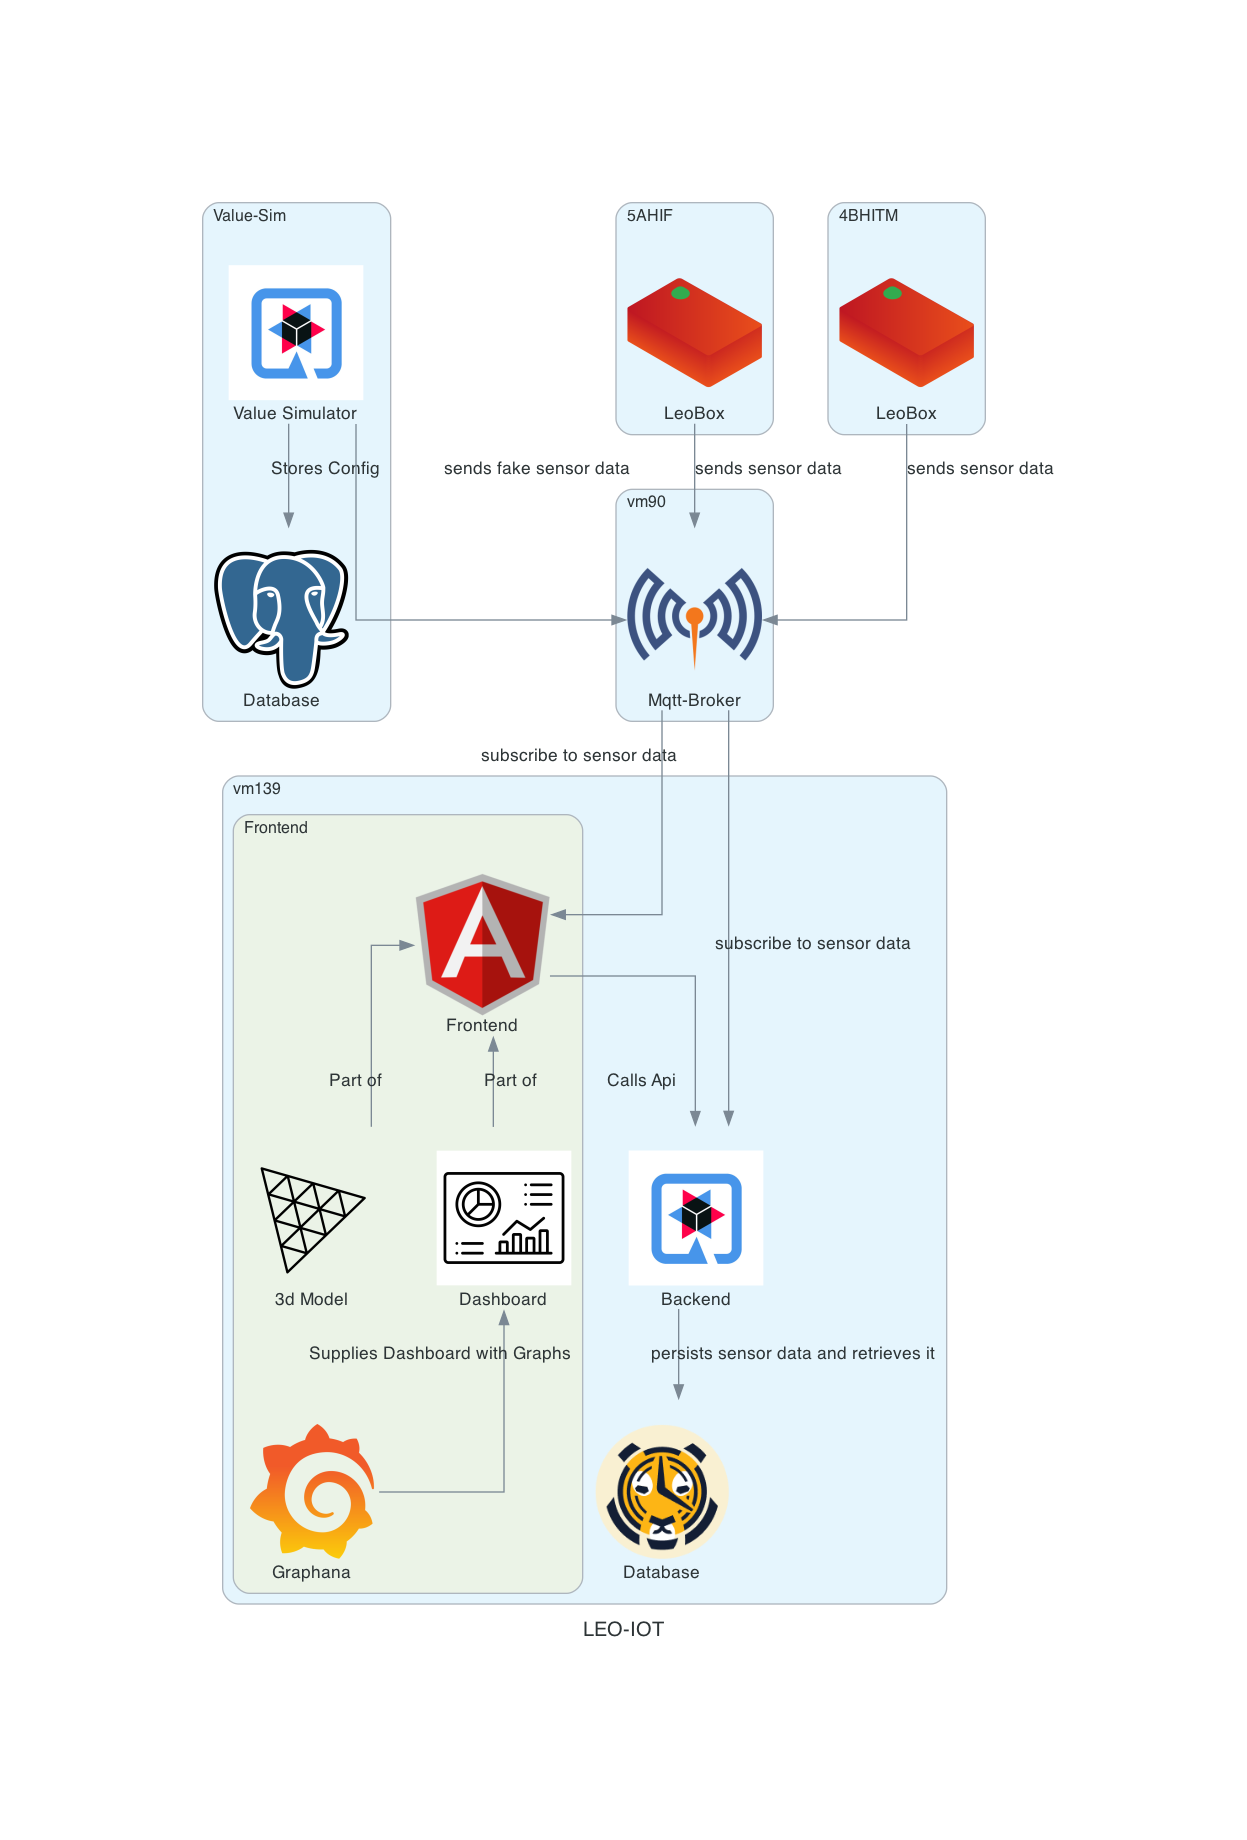
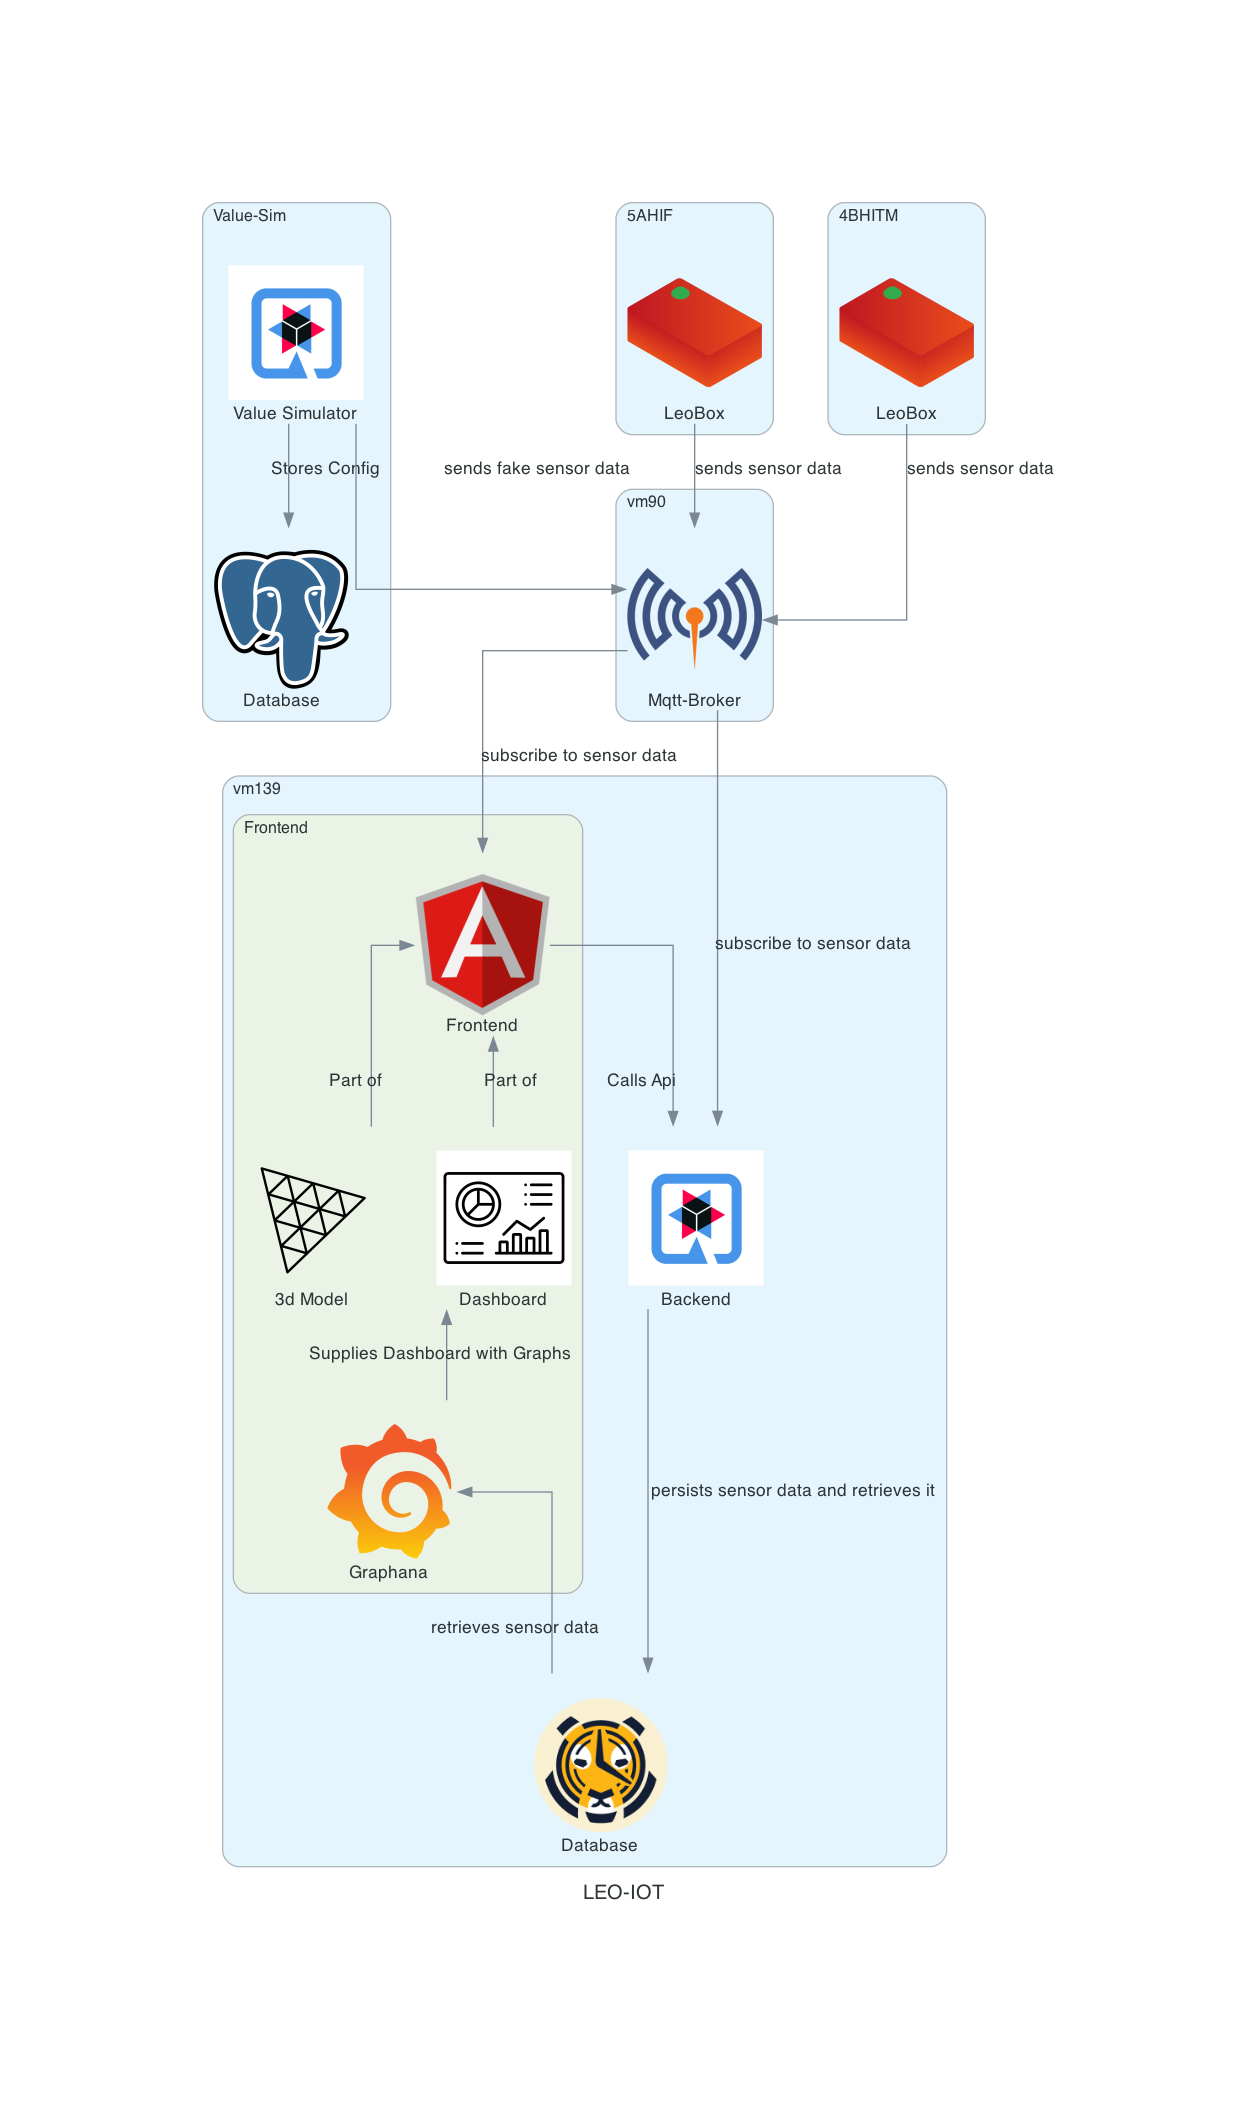
#leoiot2-6 update architecture

diff --git a/docs/images/architecture/generate.py b/docs/images/architecture/generate.py
@@ -39,4 +39,6 @@ with Diagram("LEO-IOT", show=False, direction='TB'):
 
     leo_sim >> Edge(label="sends fake sensor data") >> mosquitto
 
+    graphana << Edge(label="retrieves sensor data") << timescale
+
 
